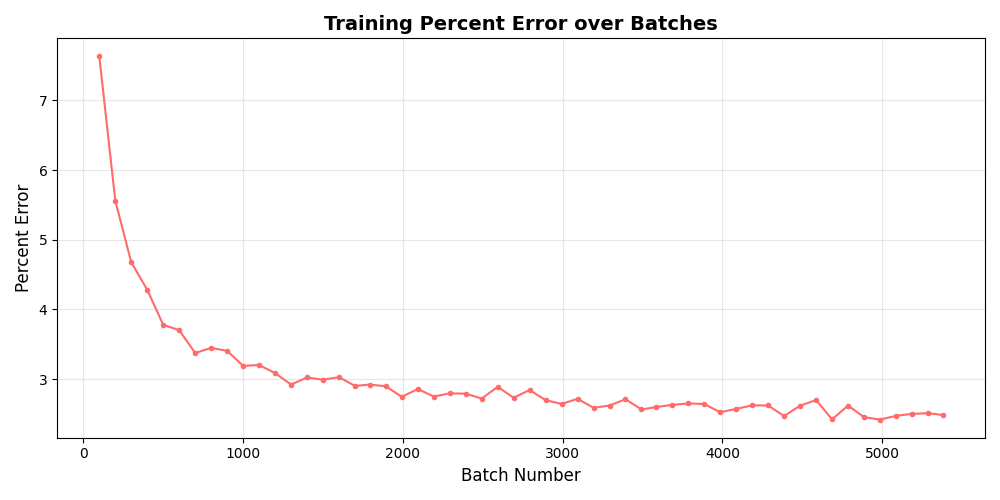
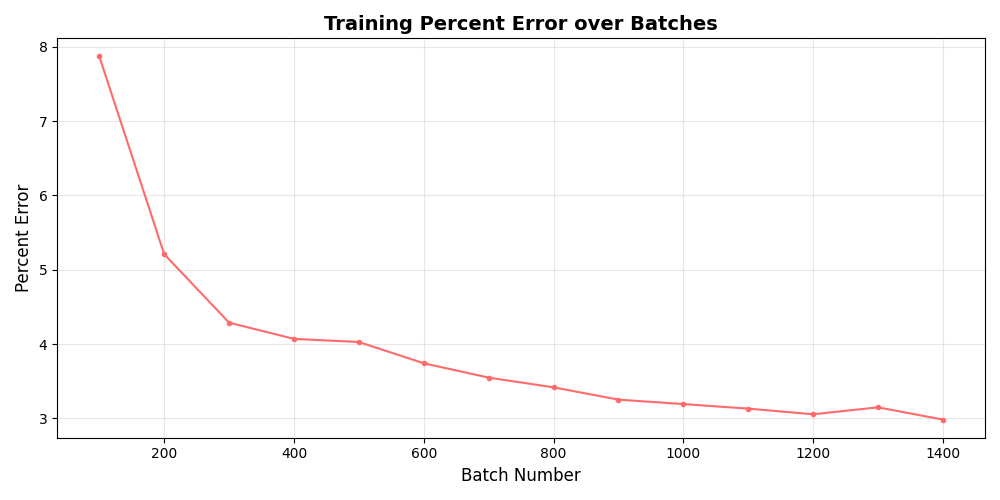
mostly done

diff --git a/visualizer.py b/visualizer.py
@@ -13,58 +13,52 @@ class NeuralVisualizer:
         self.batches_per_epoch = batches_per_epoch
 
         # nodes
-        self.input_nodes = ["Input"]
+        self.seq_input_nodes = [f"S{i+1}" for i in range(4)]
+        self.delta_input_nodes = [f"D{i+1}" for i in range(4)]
         self.gru_nodes = [f"G{i}" for i in range(8)]
-        self.delta_nodes = [f"D{i}" for i in range(4)]
         self.output_nodes = ["Output"]
 
         for node in (
-            self.input_nodes
+            self.seq_input_nodes
+            + self.delta_input_nodes
             + self.gru_nodes
-            + self.delta_nodes
             + self.output_nodes
         ):
             self.G.add_node(node)
 
-        # edges: input -> all 12 middle nodes -> output
-        for inp in self.input_nodes:
+        # edges: sequence + delta inputs -> hidden GRU layer -> output
+        for inp in self.seq_input_nodes + self.delta_input_nodes:
             for gru in self.gru_nodes:
                 self.G.add_edge(inp, gru)
-            for delta in self.delta_nodes:
-                self.G.add_edge(inp, delta)
 
         for gru in self.gru_nodes:
             self.G.add_edge(gru, "Output")
-        for delta in self.delta_nodes:
-            self.G.add_edge(delta, "Output")
 
-        # positions: horizontal layout
+        # positions: top row for inputs, middle row for hidden layer
         self.pos = {}
-        # input at top center
-        total = len(self.gru_nodes) + len(self.delta_nodes)
-        mid_x = (total - 1) / 2.0
-        self.pos["Input"] = (mid_x, 2.0)
+        top_y = 2.2
+        for i, n in enumerate(self.seq_input_nodes):
+            self.pos[n] = (i * 1.0, top_y)
+        for i, n in enumerate(self.delta_input_nodes):
+            self.pos[n] = ((len(self.seq_input_nodes) + i) * 1.0, top_y)
 
-        # middle row: 8 GRU then 4 delta
         middle_y = 1.0
-        for i, n in enumerate(self.gru_nodes + self.delta_nodes):
+        for i, n in enumerate(self.gru_nodes):
             self.pos[n] = (i * 1.0, middle_y)
 
-        # output at bottom
-        self.pos["Output"] = (mid_x, 0.0)
+        self.pos["Output"] = ((len(self.gru_nodes) - 1) * 1.0 / 2.0, 0.0)
 
         # smoothing (EMA)
         self.smoothing_alpha = smoothing_alpha
         self.prev_gru = None
         self.prev_delta = None
-        self.prev_input = None
 
         # track MAE history for plotting
         self.mae_history = []
         self.batch_history = []
 
         plt.ion()
-        self.fig, self.ax = plt.subplots(figsize=(12, 4))
+        self.fig, self.ax = plt.subplots(figsize=(12, 6))
         self.fig.show()
         self.fig.canvas.draw()
 
@@ -90,7 +84,7 @@ class NeuralVisualizer:
         plt.close(fig_mae)
 
 
-    def update(self, epoch, batch, mae, input_val, gru_values, delta_values):
+    def update(self, epoch, batch, mae, seq_examples, delta_values, gru_values):
         self.ax.clear()
 
         # track MAE history (global batch counter)
@@ -100,7 +94,7 @@ class NeuralVisualizer:
 
         # get magnitudes and apply EMA smoothing
         gru_strength = abs(gru_values[: len(self.gru_nodes)])
-        delta_strength = abs(delta_values[: len(self.delta_nodes)])
+        delta_strength = abs(delta_values[: len(self.delta_input_nodes)])
 
         if self.prev_gru is None:
             self.prev_gru = gru_strength.copy()
@@ -112,14 +106,8 @@ class NeuralVisualizer:
         else:
             self.prev_delta = self.smoothing_alpha * delta_strength + (1 - self.smoothing_alpha) * self.prev_delta
 
-        if self.prev_input is None:
-            self.prev_input = float(input_val)
-        else:
-            self.prev_input = self.smoothing_alpha * float(input_val) + (1 - self.smoothing_alpha) * self.prev_input
-
         gru_strength = self.prev_gru
         delta_strength = self.prev_delta
-        input_val = self.prev_input
 
         # normalization
         max_val = 1e-6
@@ -127,7 +115,8 @@ class NeuralVisualizer:
             max_val = max(max_val, float(gru_strength.max()))
         if len(delta_strength) > 0:
             max_val = max(max_val, float(delta_strength.max()))
-        max_val = max(max_val, abs(float(input_val)))
+        for seq_item in seq_examples:
+            max_val = max(max_val, abs(float(seq_item[0])), abs(float(seq_item[1])))
 
         # helpers for color blending
         def hex_to_rgb(h):
@@ -138,7 +127,6 @@ class NeuralVisualizer:
             return '#%02x%02x%02x' % tuple(int(max(0, min(255, round(c*255)))) for c in rgb)
 
         def blend_with_white(base_hex, factor):
-            # factor 0..1 -> amount of base color (small factor keeps it light)
             br, bg, bb = hex_to_rgb(base_hex)
             wr, wg, wb = (1.0, 1.0, 1.0)
             r = wr * (1-factor) + br * factor
@@ -146,64 +134,59 @@ class NeuralVisualizer:
             b = wb * (1-factor) + bb * factor
             return rgb_to_hex((r, g, b))
 
-        base_gru = '#FFF59D'   # pastel yellow
+        base_seq = '#E3F2FD'   # light blue
         base_delta = '#FFD3A5' # pastel orange
-        base_input = '#E3F2FD' # light blue
+        base_gru = '#FFF59D'   # pastel yellow
 
         node_colors = []
         labels = {}
 
         for node in self.G.nodes():
-            if node == 'Input':
-                labels[node] = 'Input'
-                val = float(input_val)
-                factor = min(1.0, abs(val) / max_val) * 0.25
-                node_colors.append(blend_with_white(base_input, factor))
+            if node in self.seq_input_nodes:
+                idx = self.seq_input_nodes.index(node)
+                seq_value = seq_examples[idx]
+                labels[node] = f"[{seq_value[0]:.2f},{seq_value[1]:.2f}]"
+                factor = min(1.0, (abs(float(seq_value[0])) + abs(float(seq_value[1]))) / (2 * max_val)) * 0.4
+                node_colors.append(blend_with_white(base_seq, factor))
+
+            elif node in self.delta_input_nodes:
+                idx = self.delta_input_nodes.index(node)
+                if idx < len(delta_strength):
+                    val = float(delta_strength[idx])
+                    labels[node] = f"{val:.2f}"
+                    factor = min(1.0, abs(val) / max_val) * 0.5
+                    node_colors.append(blend_with_white(base_delta, factor))
+                else:
+                    labels[node] = '0.00'
+                    node_colors.append(blend_with_white(base_delta, 0.1))
 
             elif node.startswith('G'):
                 idx = int(node[1:])
                 if idx < len(gru_strength):
                     val = float(gru_strength[idx])
                     labels[node] = f"{val:.3f}"
-                    factor = min(1.0, abs(val) / max_val) * 0.5
+                    factor = min(1.0, abs(val) / max_val) * 0.6
                     node_colors.append(blend_with_white(base_gru, factor))
                 else:
                     labels[node] = '0.000'
                     node_colors.append(blend_with_white(base_gru, 0.0))
 
-            elif node.startswith('D'):
-                idx = int(node[1:])
-                if idx < len(delta_strength):
-                    val = float(delta_strength[idx])
-                    labels[node] = f"{val:.3f}"
-                    factor = min(1.0, abs(val) / max_val) * 0.6
-                    node_colors.append(blend_with_white(base_delta, factor))
-                else:
-                    labels[node] = '0.000'
-                    node_colors.append(blend_with_white(base_delta, 0.1))
-
             else:
-                # skip output from networkx draw; we'll draw it manually as a rectangle
                 continue
 
-        # draw only input + 12 middle nodes (exclude output)
         visible_nodes = [n for n in self.G.nodes() if n != 'Output']
-        visible_edges = [(u, v) for u, v in self.G.edges() if u != 'Output' and v != 'Output']
-
-        # add edges from all 12 middle nodes to Output
-        for node in self.gru_nodes + self.delta_nodes:
-            visible_edges.append((node, 'Output'))
+        visible_edges = [(u, v) for u, v in self.G.edges()]
 
         nx.draw_networkx_nodes(
             self.G,
             self.pos,
             nodelist=visible_nodes,
             node_color=node_colors,
-            node_size=1200,
+            node_size=900,
             ax=self.ax
         )
 
-        nx.draw_networkx_labels(self.G, self.pos, labels, ax=self.ax)
+        nx.draw_networkx_labels(self.G, self.pos, labels, ax=self.ax, font_size=8)
 
         nx.draw_networkx_edges(
             self.G,
@@ -225,27 +208,40 @@ class NeuralVisualizer:
         self.ax.text(output_x, output_y, f"Percent Error: {percent_error:.1f}%", ha='center', va='center',
                     fontsize=9, weight='bold')
 
-        # Draw boxes around sequence (8 GRU) and delta (4) groups
+        # Draw boxes around the sequence and delta input groups
         from matplotlib.patches import Rectangle
 
-        # sequence box (8 GRU nodes on left, indices 0-7)
-        seq_x_min, seq_x_max = -0.5, 7.5
-        seq_y_min, seq_y_max = 0.6, 1.4
+        seq_x_min, seq_x_max = -0.5, 3.5
+        seq_y_min, seq_y_max = 1.9, 2.4
         seq_rect = Rectangle((seq_x_min, seq_y_min), seq_x_max - seq_x_min, seq_y_max - seq_y_min,
                              linewidth=2, edgecolor='#FFC107', facecolor='none', linestyle='--')
         self.ax.add_patch(seq_rect)
-        self.ax.text(seq_x_min - 0.7, 1.0, 'Sequence', ha='right', fontsize=10, color='#FFC107', weight='bold')
+        self.ax.text(seq_x_min - 0.1, (seq_y_min + seq_y_max) / 2, 'Sequence', ha='right', va='center', fontsize=10, color='#FFC107', weight='bold')
 
-        # delta box (4 delta nodes on right, indices 8-11)
-        delta_x_min, delta_x_max = 7.5, 11.5
-        delta_y_min, delta_y_max = 0.6, 1.4
+        delta_x_min, delta_x_max = 3.5, 7.5
+        delta_y_min, delta_y_max = 1.9, 2.4
         delta_rect = Rectangle((delta_x_min, delta_y_min), delta_x_max - delta_x_min, delta_y_max - delta_y_min,
                                linewidth=2, edgecolor='#FF8A65', facecolor='none', linestyle='--')
         self.ax.add_patch(delta_rect)
-        self.ax.text(delta_x_max + 0.7, 1.0, 'Delta', ha='left', fontsize=10, color='#FF8A65', weight='bold')
+        self.ax.text(delta_x_min + 4.1, (delta_y_min + delta_y_max) / 2, 'Delta', ha='left', va='center', fontsize=10, color='#FF8A65', weight='bold')
 
-        self.ax.set_xlim(-1, 12)
-        self.ax.set_ylim(-0.5, 2.5)
+        # Draw a shared top label for the inputs layer
+        inputs_x_min = seq_x_min
+        inputs_x_max = delta_x_max
+        inputs_y = seq_y_max + 0.1
+        self.ax.plot([inputs_x_min, inputs_x_max], [inputs_y, inputs_y], color='#999999', linewidth=1)
+        self.ax.text((inputs_x_min + inputs_x_max) / 2, inputs_y + 0.05, 'Inputs', ha='center', va='bottom', fontsize=11, weight='bold', color='#333333')
+
+        # Draw box around hidden layer
+        hidden_x_min, hidden_x_max = -0.5, 7.5
+        hidden_y_min, hidden_y_max = 0.8, 1.3
+        hidden_rect = Rectangle((hidden_x_min, hidden_y_min), hidden_x_max - hidden_x_min, hidden_y_max - hidden_y_min,
+                                linewidth=2, edgecolor='#E57373', facecolor='none', linestyle='--')
+        self.ax.add_patch(hidden_rect)
+        self.ax.text(hidden_x_min - 0.1, (hidden_y_min + hidden_y_max) / 2, 'Hidden Layer', ha='right', va='center', fontsize=10, color='#E57373', weight='bold', rotation=90)
+
+        self.ax.set_xlim(-0.6, 7.6)
+        self.ax.set_ylim(-0.3, 2.8)
         self.ax.axis('off')
 
         self.ax.set_title(f"Epoch {epoch} Batch {batch}")

diff --git a/app.py b/app.py
@@ -165,12 +165,18 @@ def train(model, padded_train, length_tensor_train, delta_tensor_train, output_t
             with torch.no_grad():
                 seq_feats, delta_feats = model.get_features(batch_padded, batch_lengths, batch_deltas)
 
-                # compute input value: last valid timestep first feature of first sample
-                first_len = batch_lengths[0].item()
-                if first_len > 0:
-                    input_val = batch_padded[0, first_len - 1, 0].detach().cpu().item()
-                else:
-                    input_val = float(batch_padded[0].mean().detach().cpu().item())
+                # average the first 4 sequence positions across the batch
+                seq_slice = batch_padded[:, :4, :]
+                seq_example = []
+                for pos_idx in range(4):
+                    pos_values = seq_slice[:, pos_idx, :]
+                    valid = (pos_values[:, 0] != -1) | (pos_values[:, 1] != -1)
+                    if valid.sum() == 0:
+                        avg = np.array([-1.0, -1.0], dtype=np.float32)
+                    else:
+                        avg = pos_values[valid].float().mean(dim=0).cpu().numpy()
+                    seq_example.append(avg)
+                seq_example = np.stack(seq_example, axis=0)
 
                 # select representative GRU neurons evenly across hidden size
                 hidden_size = seq_feats.size(1)
@@ -181,7 +187,7 @@ def train(model, padded_train, length_tensor_train, delta_tensor_train, output_t
 
                 # select representative delta neurons evenly
                 delta_size = delta_feats.size(1)
-                num_d = len(visualizer.delta_nodes)
+                num_d = len(visualizer.delta_input_nodes)
                 step_d = max(1, delta_size // num_d)
                 indices_d = [step_d * i for i in range(num_d)]
                 delta_vals = delta_feats[0, indices_d]
@@ -201,7 +207,7 @@ def train(model, padded_train, length_tensor_train, delta_tensor_train, output_t
             if (batch_idx % vis_every == 0) or (batch_idx == len(dataloader)):
                 # compute average MAE across this batch group
                 avg_mae = sum(mae_accumulator) / len(mae_accumulator) if mae_accumulator else mae
-                visualizer.update(epoch + 1, batch_idx, avg_mae, input_val, gru_vals, delta_vals)
+                visualizer.update(epoch + 1, batch_idx, avg_mae, seq_example, delta_vals, gru_vals)
                 mae_accumulator = []  # reset accumulator
             print(f"Epoch {epoch+1}/{epochs} Batch {batch_idx}/{len(dataloader)}, Loss: {loss.item():.4f}")
 